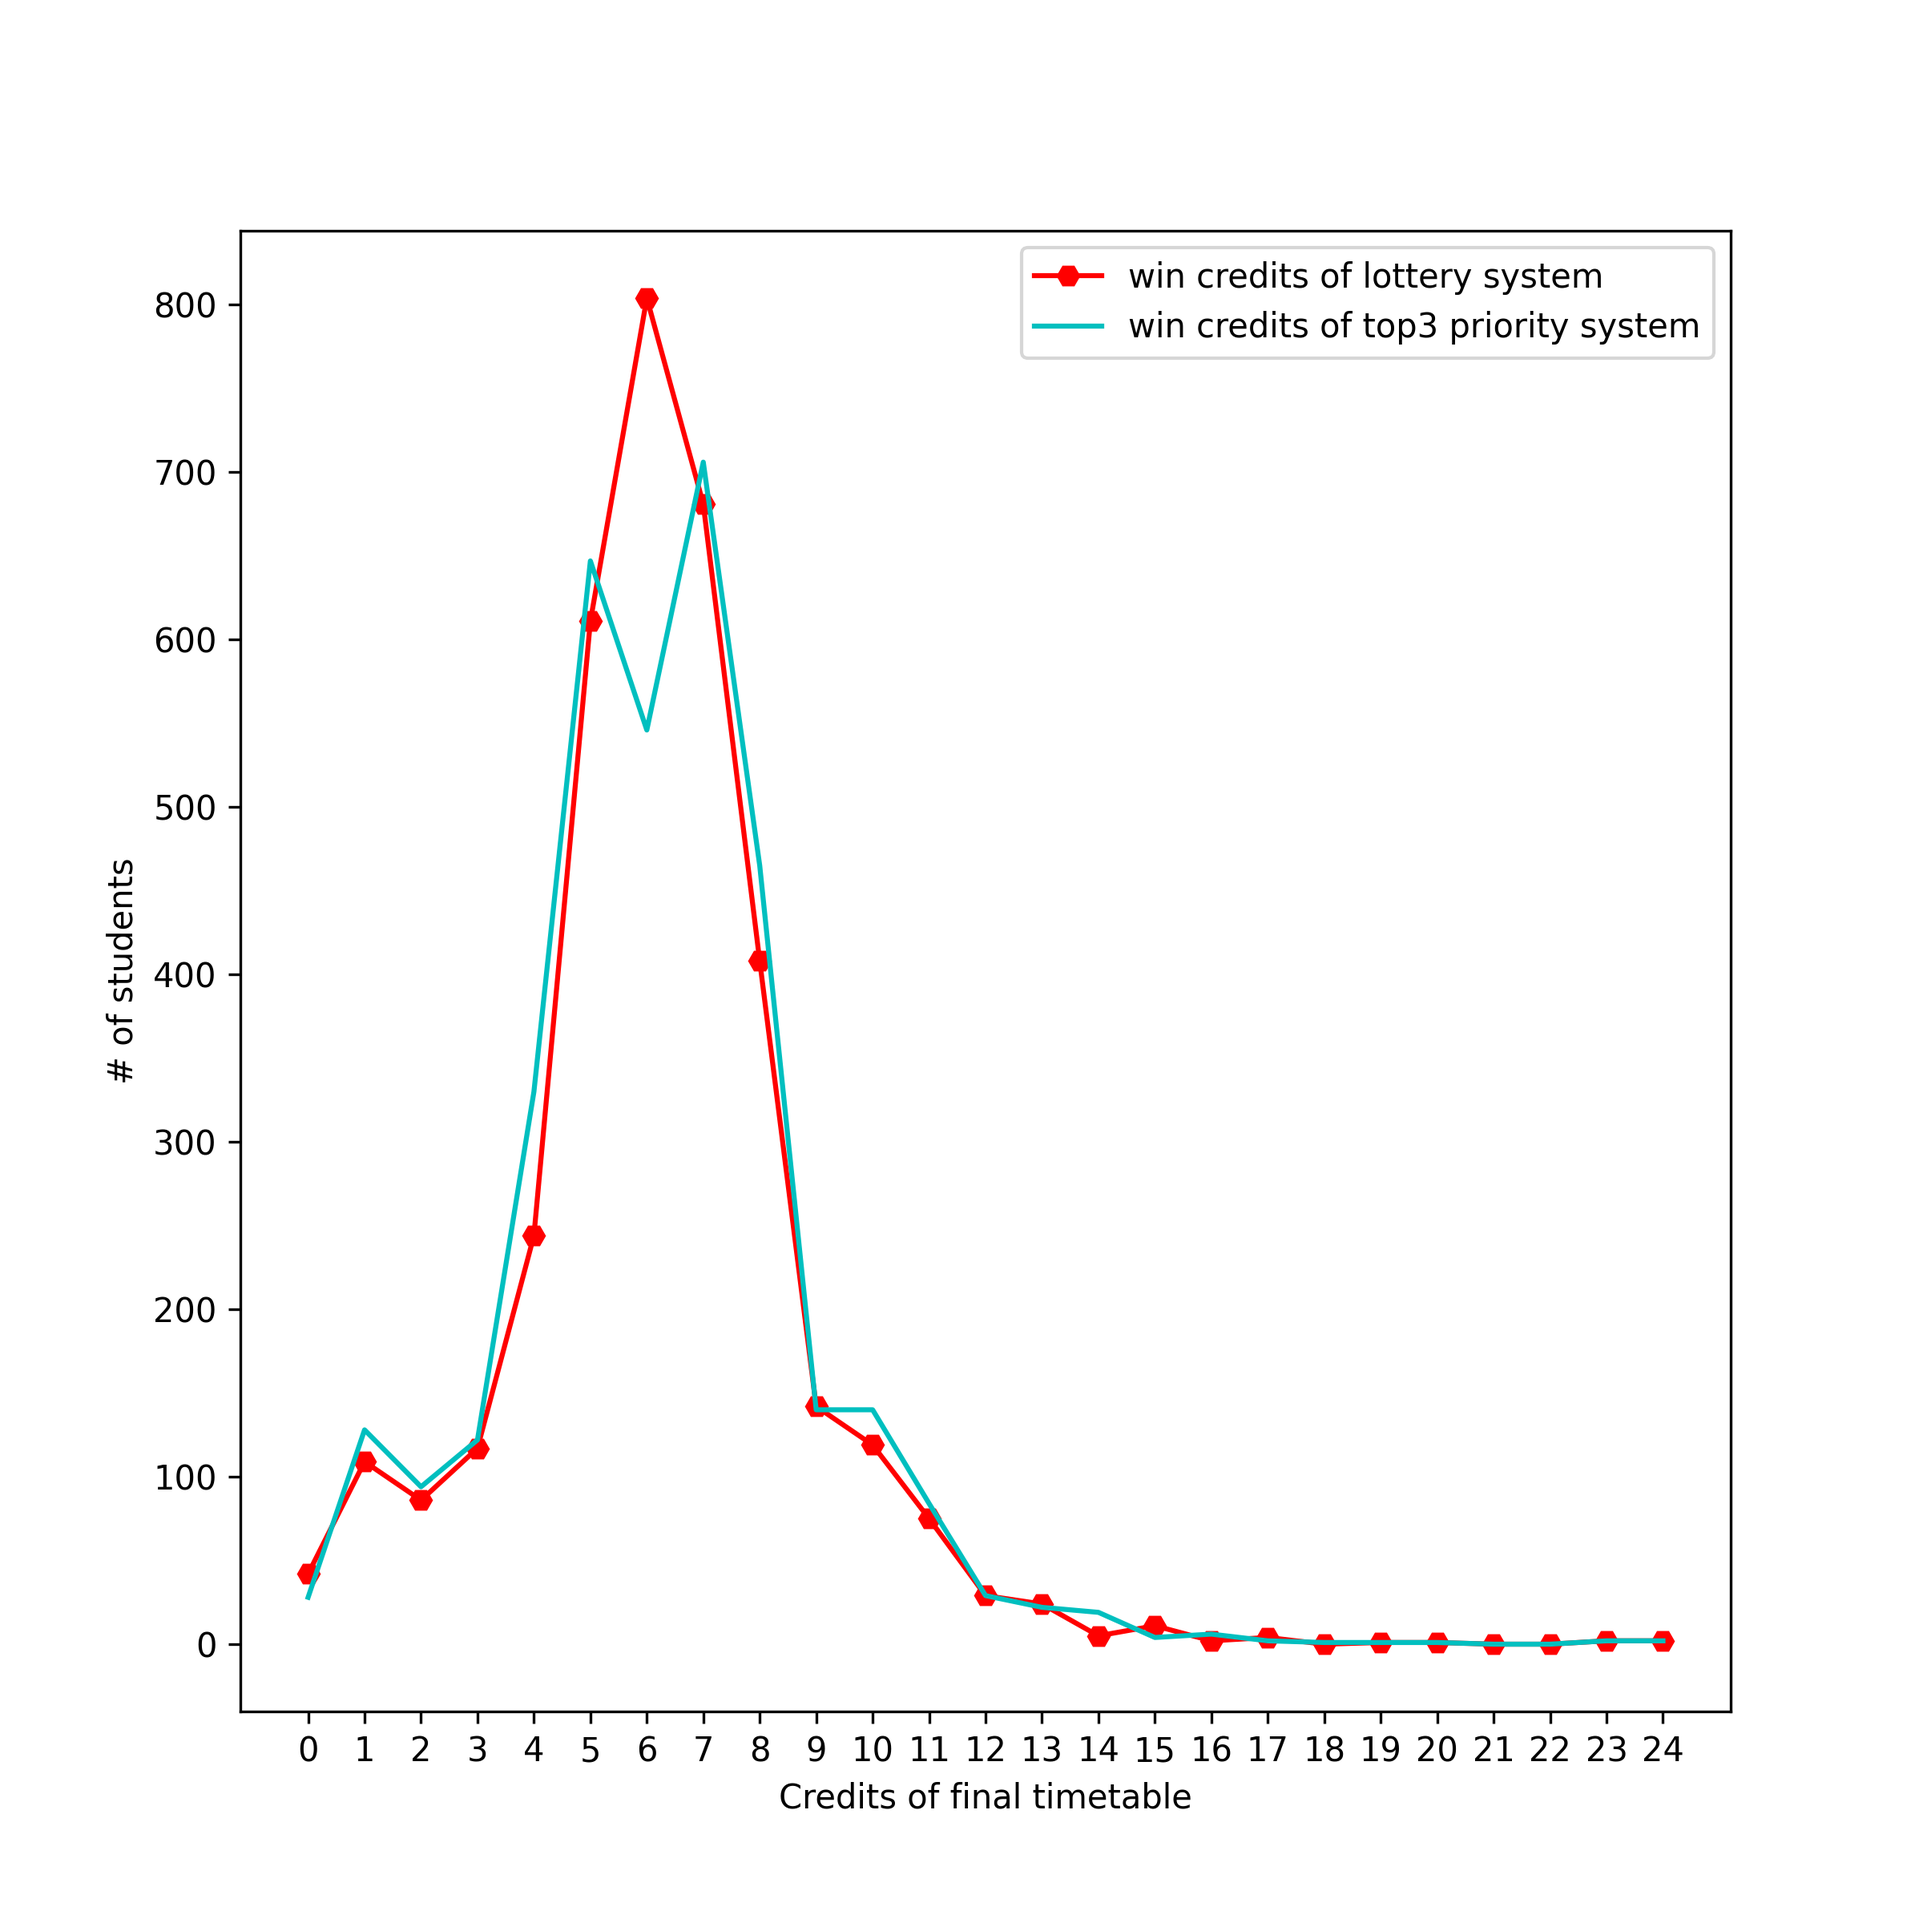
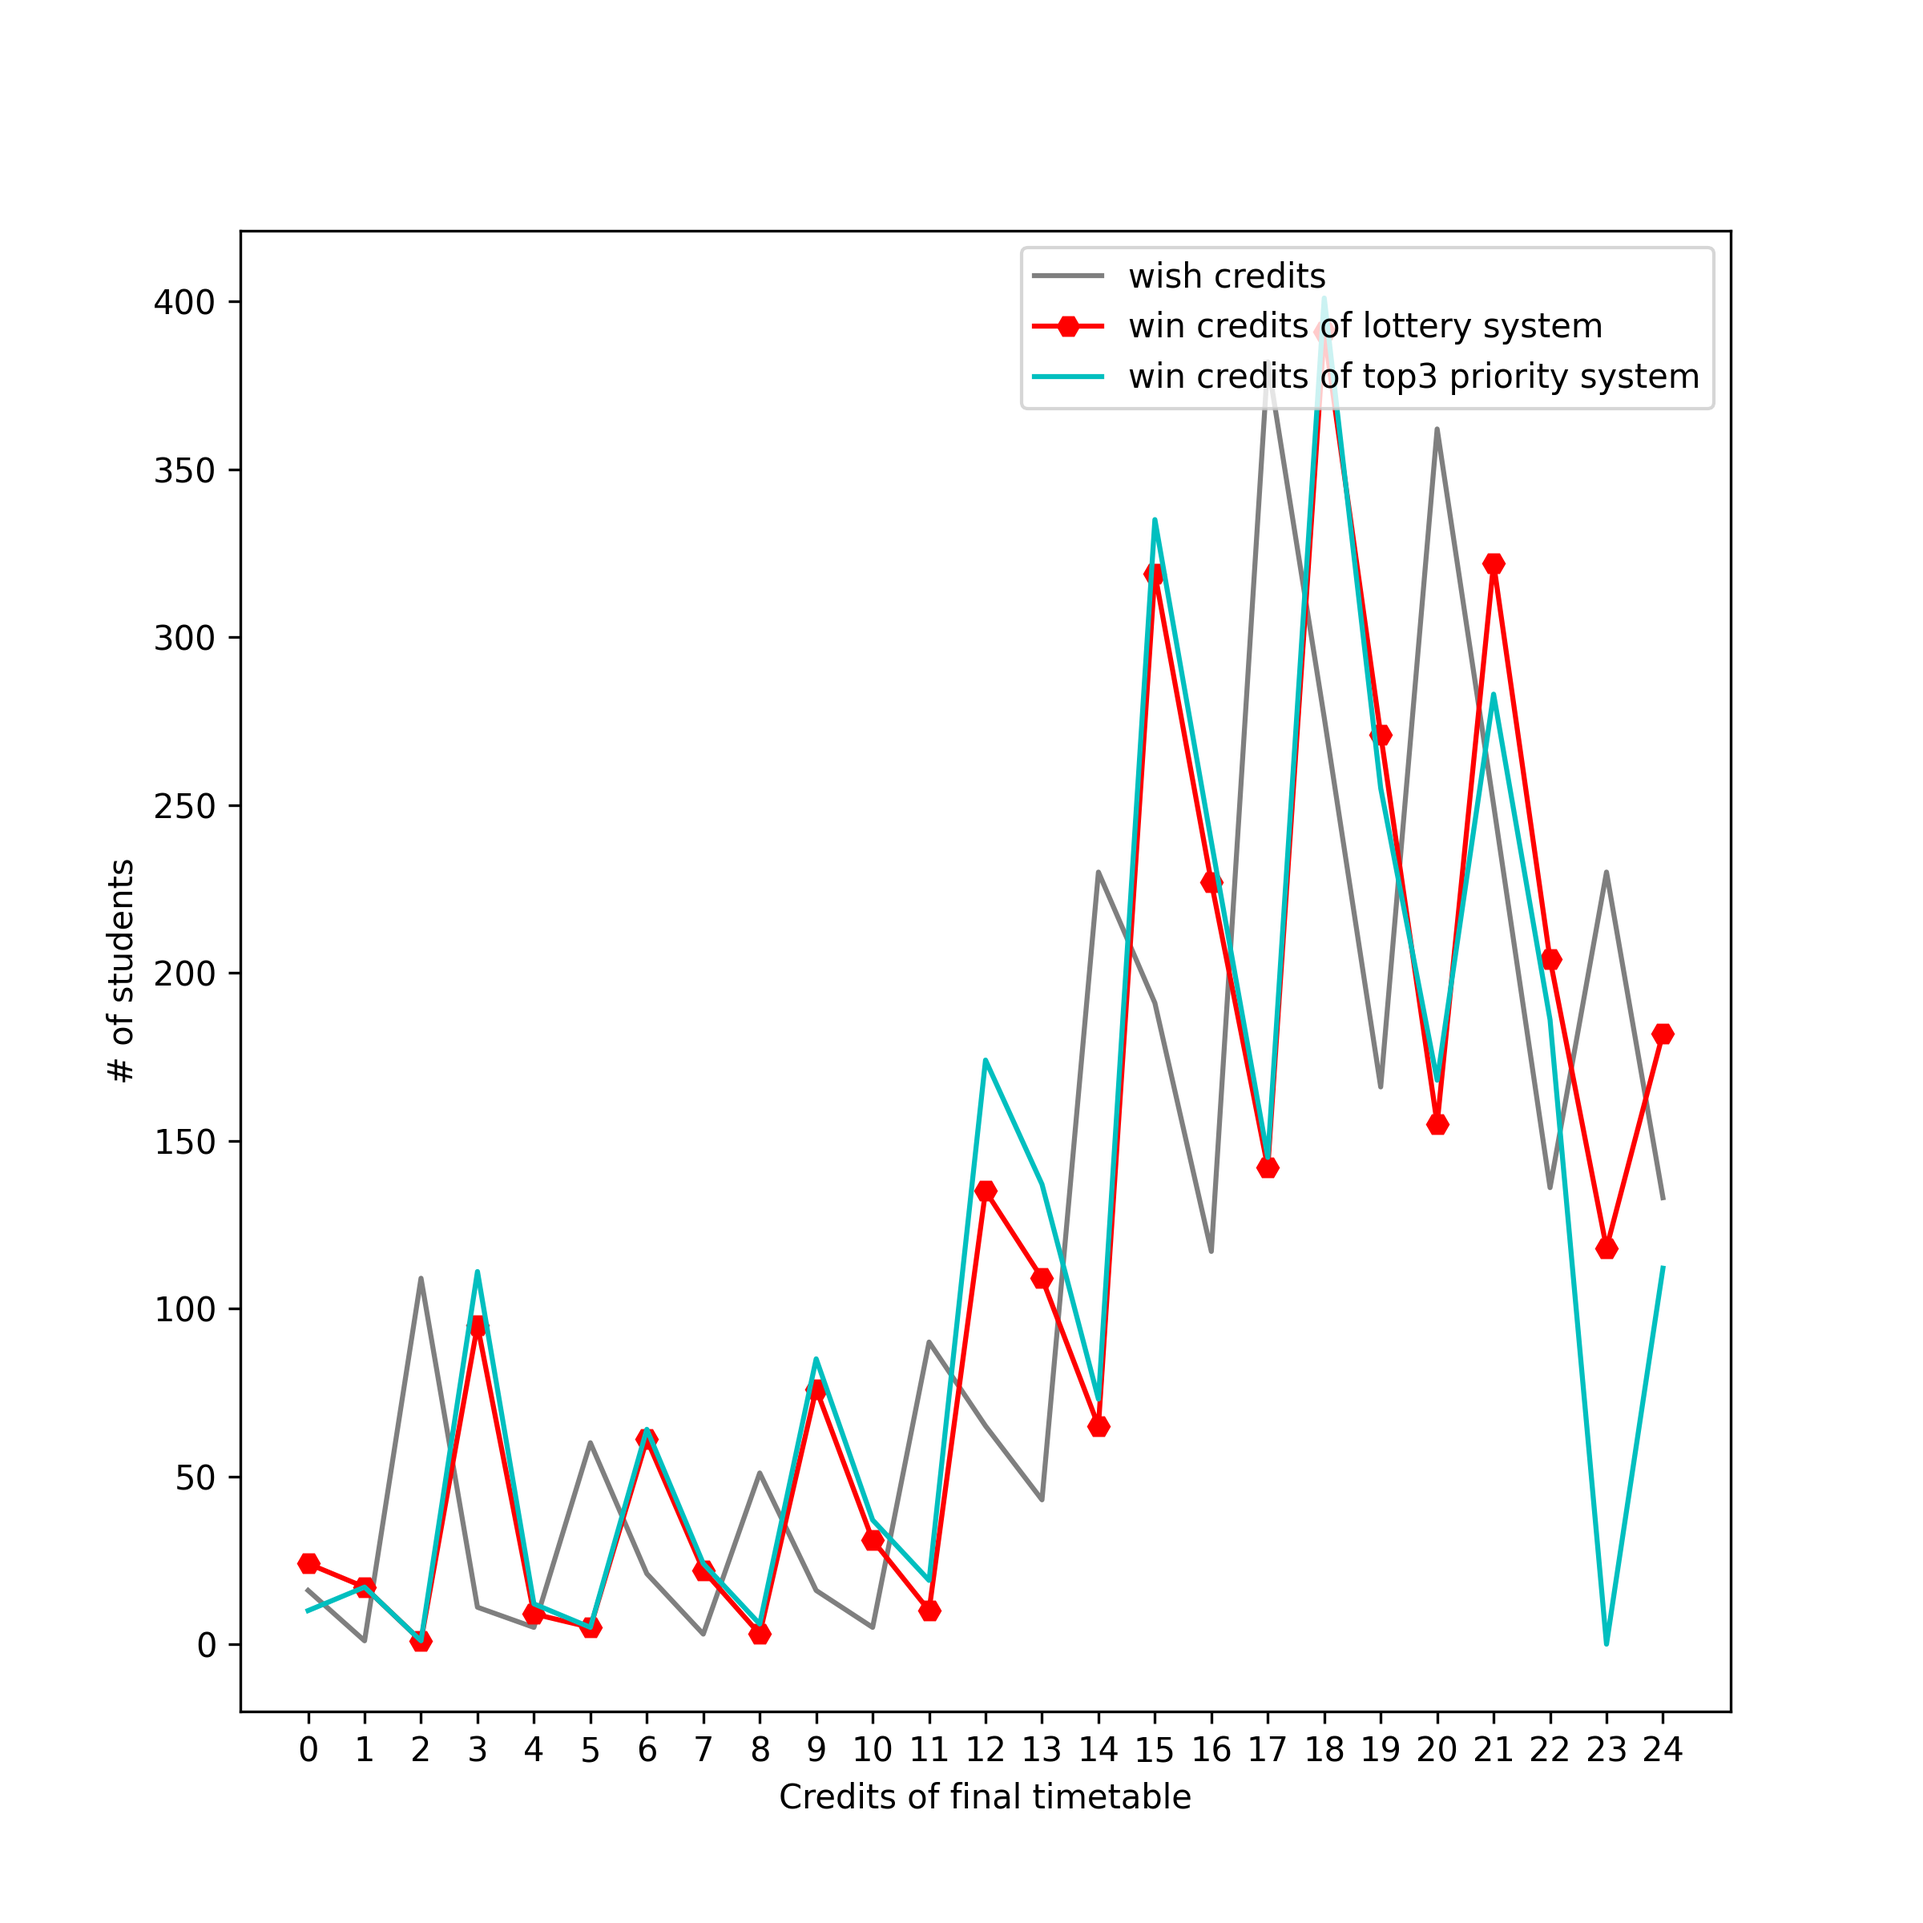
fix error in credit distribution

diff --git a/visualization/metrics/credit_distribution.py b/visualization/metrics/credit_distribution.py
@@ -37,10 +37,9 @@ def credit_distribution(results, semester):
     
     df.loc['wish', ">= 9 credits (%)"] = round(over_standard / all_students * 100, 2)
 
-    
-    # bins = int(MAX_CREDIT)
-    # histogram, _ = np.histogram(wish_credits, bins = bins)
-    # plt.plot(range(bins), list(histogram[:MAX_CREDIT]), color=COLOR.ELSE, alpha = 0.5, label = "wish credits")
+    bins = int(max(wish_credits))
+    histogram, _ = np.histogram(wish_credits, bins = bins)
+    plt.plot(range(MAX_CREDIT), list(histogram[:MAX_CREDIT]), color=COLOR.ELSE, alpha = 0.5, label = "wish credits")
     
     # get win credit for each system
 
@@ -63,11 +62,11 @@ def credit_distribution(results, semester):
 
         df.loc[system, ">= 9 credits (%)"] = round(over_standard / all_students * 100, 2)
         
-        bins = int(MAX_CREDIT)
+        bins = int(max(wish_credits))
         histogram, _ = np.histogram(final_credits, bins = bins)
-        plt.plot(range(bins), list(histogram[:MAX_CREDIT]), color=COLOR.value_of(system), marker=MARKER.value_of(system), label = "win credits of "+system+" system")
+        plt.plot(range(MAX_CREDIT), list(histogram[:MAX_CREDIT]), color=COLOR.value_of(system), marker=MARKER.value_of(system), label = "win credits of "+system+" system")
         
-    plt.xticks(range(bins))
+    plt.xticks(range(MAX_CREDIT))
     plt.xlabel("Credits of final timetable")
     plt.ylabel("# of students")
     plt.legend(loc='upper right')

diff --git a/visualization/metrics/major_priority.py b/visualization/metrics/major_priority.py
@@ -13,7 +13,6 @@ def timetable_per_major(s, timetable, timetables):
         major = course.major
         if major not in majors:
             continue
-
         if s.major == major:
             major_type = 'major'
         elif s.minor == major:
@@ -62,7 +61,7 @@ def major_satisfaction(results, semester):
         for s in students:
             timetables = timetable_per_major(s, s.timetable, timetables)
             final_timetables = timetable_per_major(s, s.final_timetable, final_timetables)
-
+        print(ee)
         for major in majors:
             ratios = get_ratios(timetables, final_timetables, major)
             try:

diff --git a/main.py b/main.py
@@ -5,7 +5,7 @@ from util.parse import parse_course_file, parse_student_file, generate_course_ty
 from visualization.evaluation import evaluation
 
 if __name__ == "__main__":
-    for semester in [Semester.SPRING, Semester.FALL]:
+    for semester in [Semester.SPRING]: #, Semester.FALL]:
         courses_dict = parse_course_file("2021 정규학기 과목별 추첨여부.xlsx", "2021 "+semester.value+"학기 과목.xls", semester)
         students_dict = parse_student_file("2021 정규학기 수강신청 내역.xlsx", courses_dict, semester)
         
